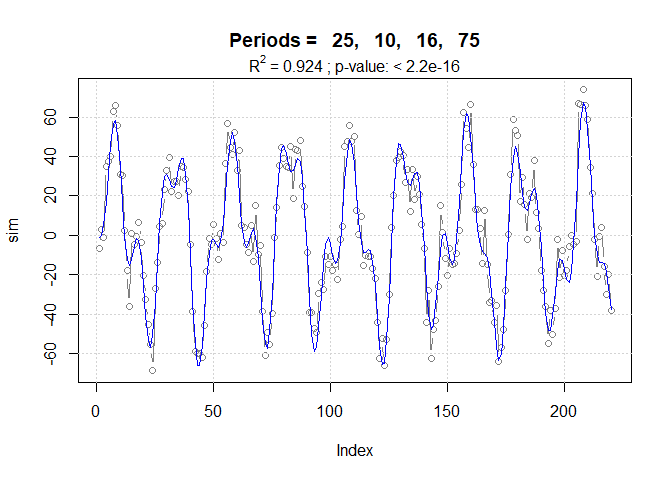
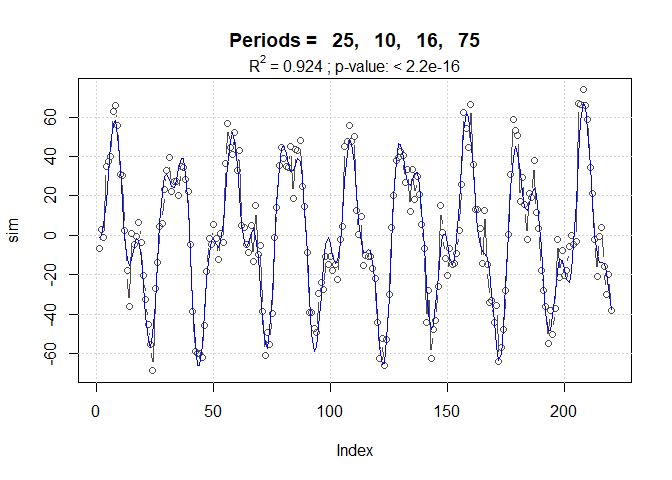
1 citation added to README

diff --git a/README.md b/README.md
@@ -1,11 +1,11 @@
-periods: Extracción y modelación de periodicidades en series de tiempo
-regulares
+Extracción y modelación de periodicidades en series de tiempo regulares
+con el paquete periods
 ================
 
 ## Instalación
 
 El paquete **periods** es la implementación en R del método presentado
-en González-Rodríguez et al. (2015). Se puede instalar desde github con
+en (González-Rodríguez et al. 2015). Se puede instalar desde github con
 ayuda de **devtools**, el cual a su vez se instala de la manera habitual
 en caso de no estar ya disponible.
 
@@ -162,10 +162,25 @@ sub.t <- substitute(paste(R^2, " = ", R2, " ; ", "p-value: ", pval),
                     list( R2 = R2, pval = pval ))
 
 par(mfrow = c(1, 1))
-plot(sim, type = "b", col = "grey50", main = main.t)
+plot(sim, type = "n", main = main.t)
 grid()
+lines(sim, type = "b", col = "grey30")
 lines(fitted(sim.fit), col = "blue")
 mtext(sub.t, side = 3)
 ```
 
 ![](README_files/figure-commonmark/unnamed-chunk-8-1.png)
+
+<div id="refs" class="references csl-bib-body hanging-indent">
+
+<div id="ref-gonzález-rodríguez2015" class="csl-entry">
+
+González-Rodríguez, Eduardo, Héctor Villalobos, Víctor Manuel
+Gómez-Muñoz, and Alejandro Ramos-Rodríguez. 2015. “Computational Method
+for Extracting and Modeling Periodicities in Time Series.” *Open Journal
+of Statistics* 05 (06): 604–17.
+<https://doi.org/10.4236/ojs.2015.56062>.
+
+</div>
+
+</div>
